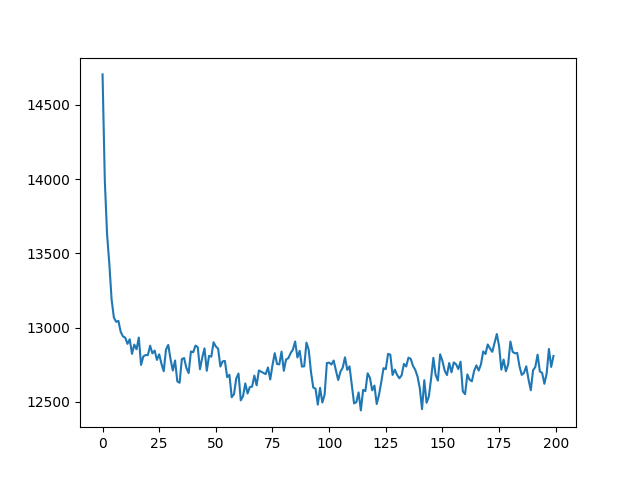
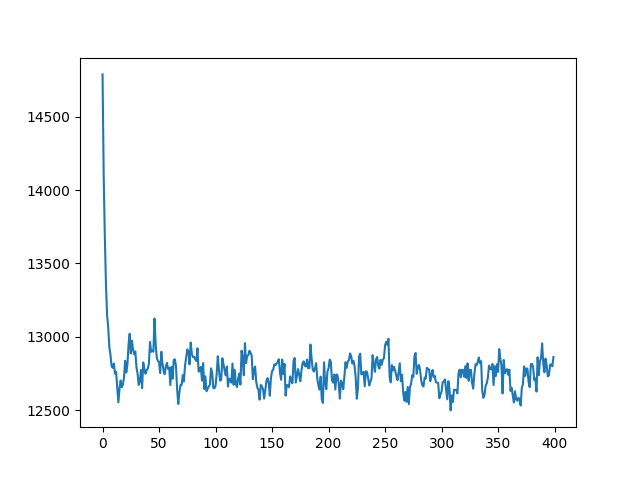
update tests

diff --git a/ga/README.md b/ga/README.md
@@ -17,7 +17,7 @@ class City:
 * `parent_pick_type` was `random`
 * `population_size` was 250
 * `mutation_rate` was 0.1
-It ran for 200 generations.
+It ran for 400 generations.
 
 ## Test 1
 ![](./imgs/ga_test_1.png)
@@ -26,19 +26,10 @@ It ran for 200 generations.
 * `parent_pick_type` was `random`
 * `population_size` was 250
 * `mutation_rate` was 0.1
-It ran for 200 generations.
+It ran for 400 generations.
 
 ## Test 2
-![]('./imgs/ga_test_2.png')
-
-* `elitism_count` was 30
-* `parent_pick_type` was `tournament` (tournament size was 8)
-* `population_size` was 250
-* `mutation_rate` was 0.1
-It ran for 200 generations.
-
-## Test 3
-![]('./imgs/ga_test_3.png')
+![](imgs/ga_test_2.png)
 
 * `elitism_count` was 30
 * `parent_pick_type` was `tournament` (tournament size was 8)
